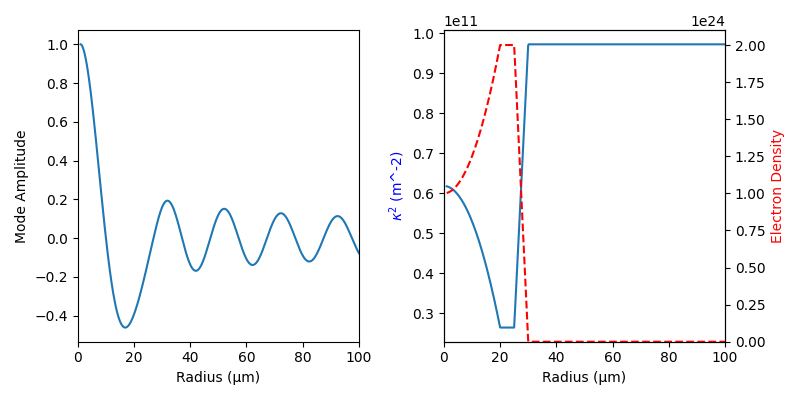
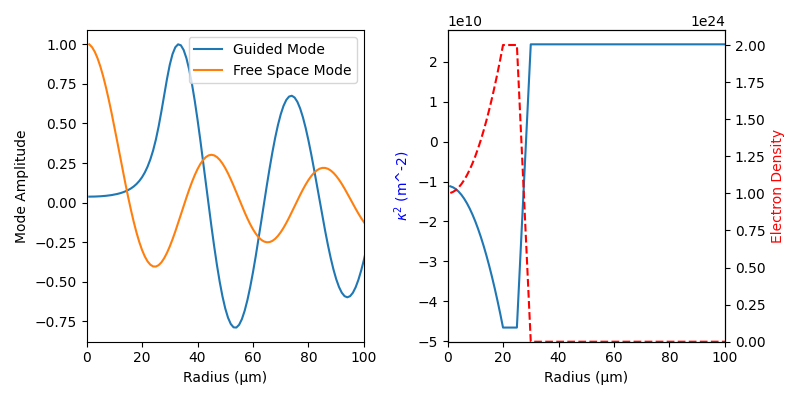
updates

diff --git a/waveguide_solver.py b/waveguide_solver.py
@@ -1,6 +1,8 @@
+import time
 import numpy as np
 from scipy.integrate import solve_ivp, solve_bvp
 from scipy.interpolate import interp1d
+from scipy.special import jv, yv
 import matplotlib.pyplot as plt
 
 from scipy.constants import c, e, m_e, epsilon_0
@@ -189,17 +191,17 @@ def solve_waveguide_fundamental_ivp(r, kappa_squared):
 
     def ode(r, y):
         u, v = y
-        dudr = v
-        dvdr = np.where(r == 0,
-                        -kappa2_interp(r) * u / 2,
-                        -kappa2_interp(r) * u - v / r)
-        return [dudr, dvdr]
+        k2 = kappa2_interp(r)
+        if r == 0:
+            return [v, -k2 * u / 2]
+        else:
+            return [v, -k2 * u - v / r]
 
     # Initial conditions: u(0) = 1, u'(0) = 0
     y0 = [1.0, 0.0]
 
     sol = solve_ivp(ode, [r[0], r[-1]], y0, t_eval=r,
-                    method='RK45', rtol=1e-10, atol=1e-12)
+                    method='RK45', rtol=1e-6, atol=1e-6)
 
     if not sol.success:
         print(f"Warning: solver did not converge: {sol.message}")
@@ -210,6 +212,91 @@ def solve_waveguide_fundamental_ivp(r, kappa_squared):
         mode_00 = -mode_00
 
     return mode_00
+
+def free_space_mode(r, kappa0):
+    """
+    Finds the free-space E-field mode profile for a given kappa0
+    which will just be a bessel beam with characteristic
+    transverse wavenumber kappa0
+
+    Parameters:
+    r : array_like
+        Radial coordinate (m)
+    kappa0 : float
+        Free-space transverse wavenumber (m^-1)
+
+    Returns:
+    mode : array_like
+        Free-space mode profile (normalized to have max amplitude of 1)
+    """
+    mode = jv(0, kappa0 * r)
+    mode = mode / np.max(np.abs(mode))
+    return mode
+
+def calculate_rout(r, n_e):
+    """
+    Calculates r_out, which is the largest value of r for which n_e > 0
+
+    Parameters:
+    r : array_like
+        Radial coordinate (m), assumed to go from small to large values
+    kappa_squared : array_like
+        Square of the transverse wavenumber profile (m^-2)
+
+    Returns:
+    r_out : float
+        The radius at which kappa^2 transitions from negative to positive (m)
+    """
+    return r[np.where(n_e > 0)[0][-1]]
+
+def calculate_eta(r, free_space_mode, quasibound_mode, r_out):
+    """
+    Calculates the coupling ratio eta between the free-space mode
+    and the quasibound mode using the formula
+
+    eta = integral_0^r_out [u(r)^2 2 pi r dr] / integral_0^r_out [u_free(r)^2 2 pi r dr]
+    where u(r) is the normalized quasibound mode and
+    u_free(r) is the normalized free-space mode
+    where r_out is the maximum radius for which kappa^2 < 0
+
+    u(r) and u_free(r) are normalized to have a mean amplitude of 1 for r > R/2. This 
+    is because all quasibound modes eventually look like free-space modes at
+    large radius since electron density goes to 0. The quasibound mode is required
+    to have an electron density of zero for r > R/2.
+
+    Parameters:
+    r : array_like
+        Radial coordinate (m)
+    free_space_mode : array_like
+        Free-space mode profile
+    quasibound_mode : array_like
+        Quasibound mode profile
+    r_out : float
+        The radius at which kappa^2 transitions from negative to positive (m)
+    
+    Returns:
+    eta : float
+        Coupling ratio between the free-space mode and the quasibound mode
+    """
+    norm_region = r > (r[-1] / 2)
+    u_free = free_space_mode
+    u = quasibound_mode
+
+    u_free_norm = np.mean(np.abs(u_free[norm_region]))
+    u_norm = np.mean(np.abs(u[norm_region]))
+
+    inside_rmax = r <= r_out
+
+    u_free_normalized = u_free[inside_rmax] / u_free_norm
+    u_normalized = u[inside_rmax] / u_norm
+    r_in = r[inside_rmax]
+
+    numerator = np.trapz(u_normalized**2 * 2 * np.pi * r_in, r_in)
+    denominator = np.trapz(u_free_normalized**2 * 2 * np.pi * r_in, r_in)
+    eta = numerator / denominator
+
+    return eta
+
 
 if __name__ == "__main__":
     # Example of parabolic density profile
@@ -222,18 +309,24 @@ if __name__ == "__main__":
     lam = 570e-9 # wavelength (m)
     n_cr = critical_density(lam)  # Critical density for 800 nm light
 
-    r = np.linspace(1e-6, 1000e-6, 5000)  # Radial grid (m)
+    r = np.linspace(1e-6, 1000e-6, 1000)  # Radial grid (m)
     n_e = truncated_parabolic_channel(r, r_ch, r_cutoff, shock_flat, shock_taper, n_e0, delta_ne)
     k0 = 2 * np.pi / lam  # Free space wavenumber (m^-1)
-    beta = k0 * 0.9996
+    beta = k0 * 0.9999
+    kappa0 = np.sqrt(k0**2 - beta**2)
     kappa2 = transverse_wavenumber(n_e, n_cr, k0, beta)
 
+    t = time.time()
     mode_00 = solve_waveguide_fundamental_ivp(r, kappa2)
-    gaussian_00 = np.exp(-r**2 / r_ch**2)
+    elapsed_ivp = time.time() - t
+    print("Time elapsed: IVP solver: {:.4f} seconds".format(elapsed_ivp))
+    free_space_mode_profile = free_space_mode(r, kappa0)
 
     # Plotting
     fig, (ax0, ax1) = plt.subplots(1, 2, figsize=(8, 4))
-    ax0.plot(r * 1e6, mode_00, label='Fundamental Mode (normalized)')
+    ax0.plot(r * 1e6, mode_00, label='Guided Mode')
+    ax0.plot(r * 1e6, free_space_mode_profile, label='Free Space Mode')
+    ax0.legend()
     ax0.set_xlabel('Radius (µm)')
     ax0.set_ylabel('Mode Amplitude')
     ax0.set_xlim(left=0, right=100)
@@ -250,3 +343,8 @@ if __name__ == "__main__":
 
     fig.tight_layout()
     fig.savefig("mode.png")
+
+    r_out = calculate_rout(r, n_e)
+    eta = calculate_eta(r, free_space_mode_profile, mode_00, r_out)
+    print(f"eta = {eta:.4f}")
+    print(f"r_out = {r_out*1e6:.2f} µm")
